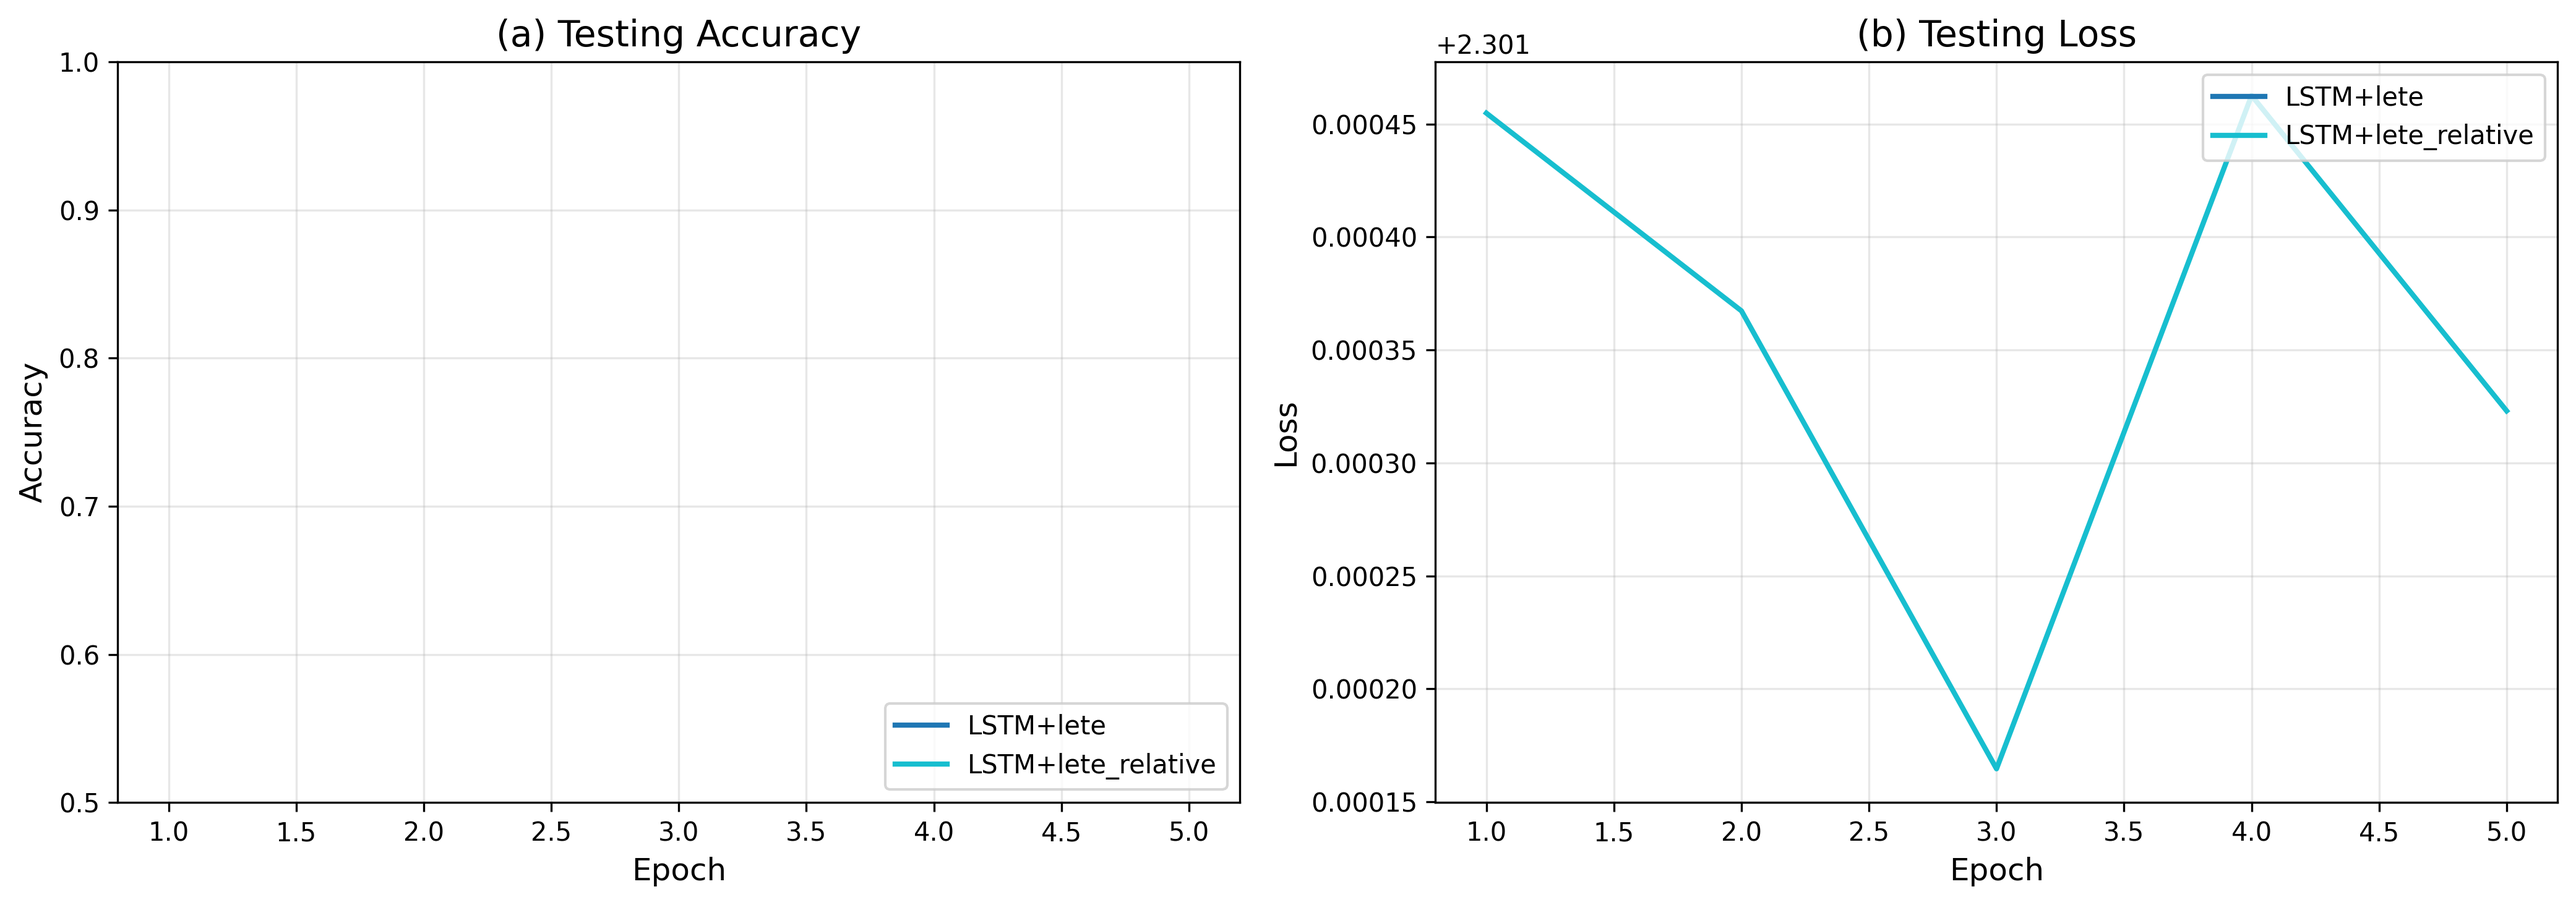
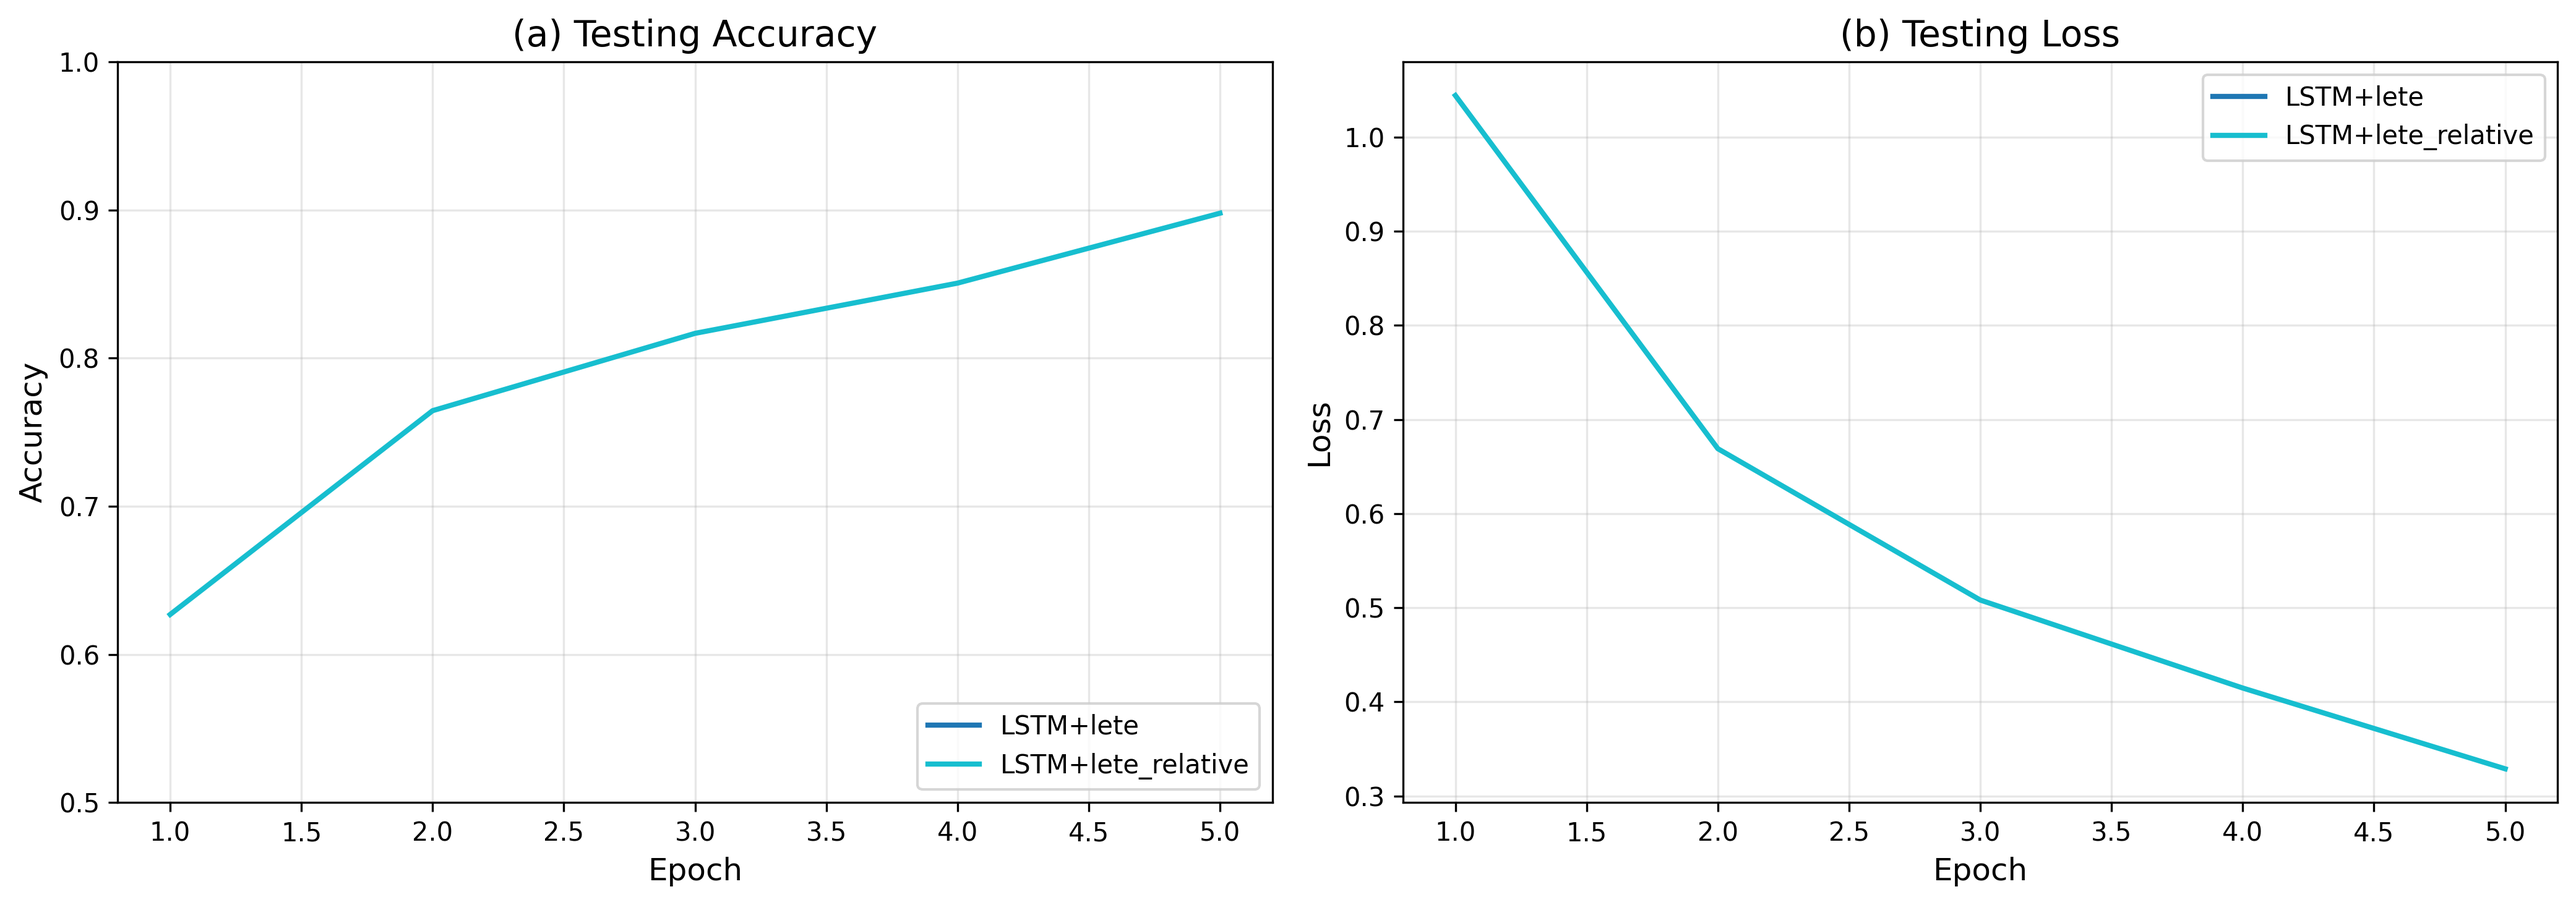
fix lete relative

diff --git a/experiments/event_based_mnist_experiment.py b/experiments/event_based_mnist_experiment.py
@@ -44,7 +44,12 @@ except ImportError:
 
 # Create LeTE Relative Time variant
 class LeTERelativeTime(nn.Module):
-    """LeTE variant that uses relative time differences instead of absolute positions"""
+    """LeTE variant that uses relative time differences instead of absolute positions
+    
+    NOTE: This wrapper converts absolute pixel positions to relative differences.
+    All positions become relative (including first position = 0), and values are
+    shifted to positive range [0, ~800] for compatibility with LeTE's learned frequencies.
+    """
     def __init__(self, time_dim):
         super().__init__()
         if not LETE_AVAILABLE:
@@ -55,14 +60,23 @@ class LeTERelativeTime(nn.Module):
         """
         Convert absolute positions to relative differences before LeTE encoding
         Args:
-            x: (batch, seq_len) - absolute pixel positions
+            x: (batch, seq_len) - absolute pixel positions [0-783]
         Returns:
             embeddings: (batch, seq_len, time_dim)
         """
-        # Convert absolute positions to relative differences
-        rel_times = torch.zeros_like(x)
-        rel_times[:, 1:] = x[:, 1:] - x[:, :-1]  # Differences between consecutive positions
-        rel_times[:, 0] = x[:, 0]  # First position remains absolute
+        # ===== FIX: Make all positions consistently relative =====
+        batch_size, seq_len = x.shape
+        rel_times = torch.zeros_like(x, dtype=torch.float32)
+        
+        # All positions become relative differences (consistent signal)
+        rel_times[:, 0] = 0.0  # First event has no predecessor
+        if seq_len > 1:
+            rel_times[:, 1:] = x[:, 1:].float() - x[:, :-1].float()
+        
+        # Shift to positive range (LeTE uses learned frequencies that expect positive values)
+        # Max difference is 783, so range is [-783, 783]
+        #rel_times = rel_times + 400.0  # Shift to approximately [0, 800] range
+        # ===== END FIX =====
         
         return self.lete(rel_times)
 
@@ -79,14 +93,22 @@ class Time2VecRelativeTime(nn.Module):
         """
         Convert absolute positions to relative differences before Time2Vec encoding
         Args:
-            x: (batch, seq_len) - absolute pixel positions
+            x: (batch, seq_len) - absolute pixel positions [0-783]
         Returns:
             embeddings: (batch, seq_len, time_dim)
         """
-        # Convert absolute positions to relative differences
-        rel_times = torch.zeros_like(x)
-        rel_times[:, 1:] = x[:, 1:] - x[:, :-1]  # Differences between consecutive positions
-        rel_times[:, 0] = x[:, 0]  # First position remains absolute
+        # ===== FIX: Make all positions consistently relative =====
+        batch_size, seq_len = x.shape
+        rel_times = torch.zeros_like(x, dtype=torch.float32)
+        
+        # All positions become relative differences (consistent signal)
+        rel_times[:, 0] = 0.0  # First event has no predecessor
+        if seq_len > 1:
+            rel_times[:, 1:] = x[:, 1:].float() - x[:, :-1].float()
+        
+        # Shift to positive range (Time2Vec uses periodic functions that work better with positive values)
+        #rel_times = rel_times + 400.0  # Shift to approximately [0, 800] range
+        # ===== END FIX =====
         
         return self.time2vec(rel_times)
 
@@ -103,14 +125,22 @@ class MercerRelativeTime(nn.Module):
         """
         Convert absolute positions to relative differences before Mercer encoding
         Args:
-            x: (batch, seq_len) - absolute pixel positions
+            x: (batch, seq_len) - absolute pixel positions [0-783]
         Returns:
             embeddings: (batch, seq_len, time_dim)
         """
-        # Convert absolute positions to relative differences
-        rel_times = torch.zeros_like(x)
-        rel_times[:, 1:] = x[:, 1:] - x[:, :-1]  # Differences between consecutive positions
-        rel_times[:, 0] = x[:, 0]  # First position remains absolute
+        # ===== FIX: Make all positions consistently relative =====
+        batch_size, seq_len = x.shape
+        rel_times = torch.zeros_like(x, dtype=torch.float32)
+        
+        # All positions become relative differences (consistent signal)
+        rel_times[:, 0] = 0.0  # First event has no predecessor
+        if seq_len > 1:
+            rel_times[:, 1:] = x[:, 1:].float() - x[:, :-1].float()
+        
+        # Shift to positive range (Mercer kernel expects positive values)
+        #rel_times = rel_times + 400.0  # Shift to approximately [0, 800] range
+        # ===== END FIX =====
         
         return self.mercer(rel_times)
 
@@ -670,7 +700,7 @@ def get_available_encoders():
     if TIME2VEC_AVAILABLE:
         encoders.extend(['time2vec', 'time2vec_relative'])
     """
-    
+
     """
     if BOCHNER_AVAILABLE:
         encoders.append('bochner')
